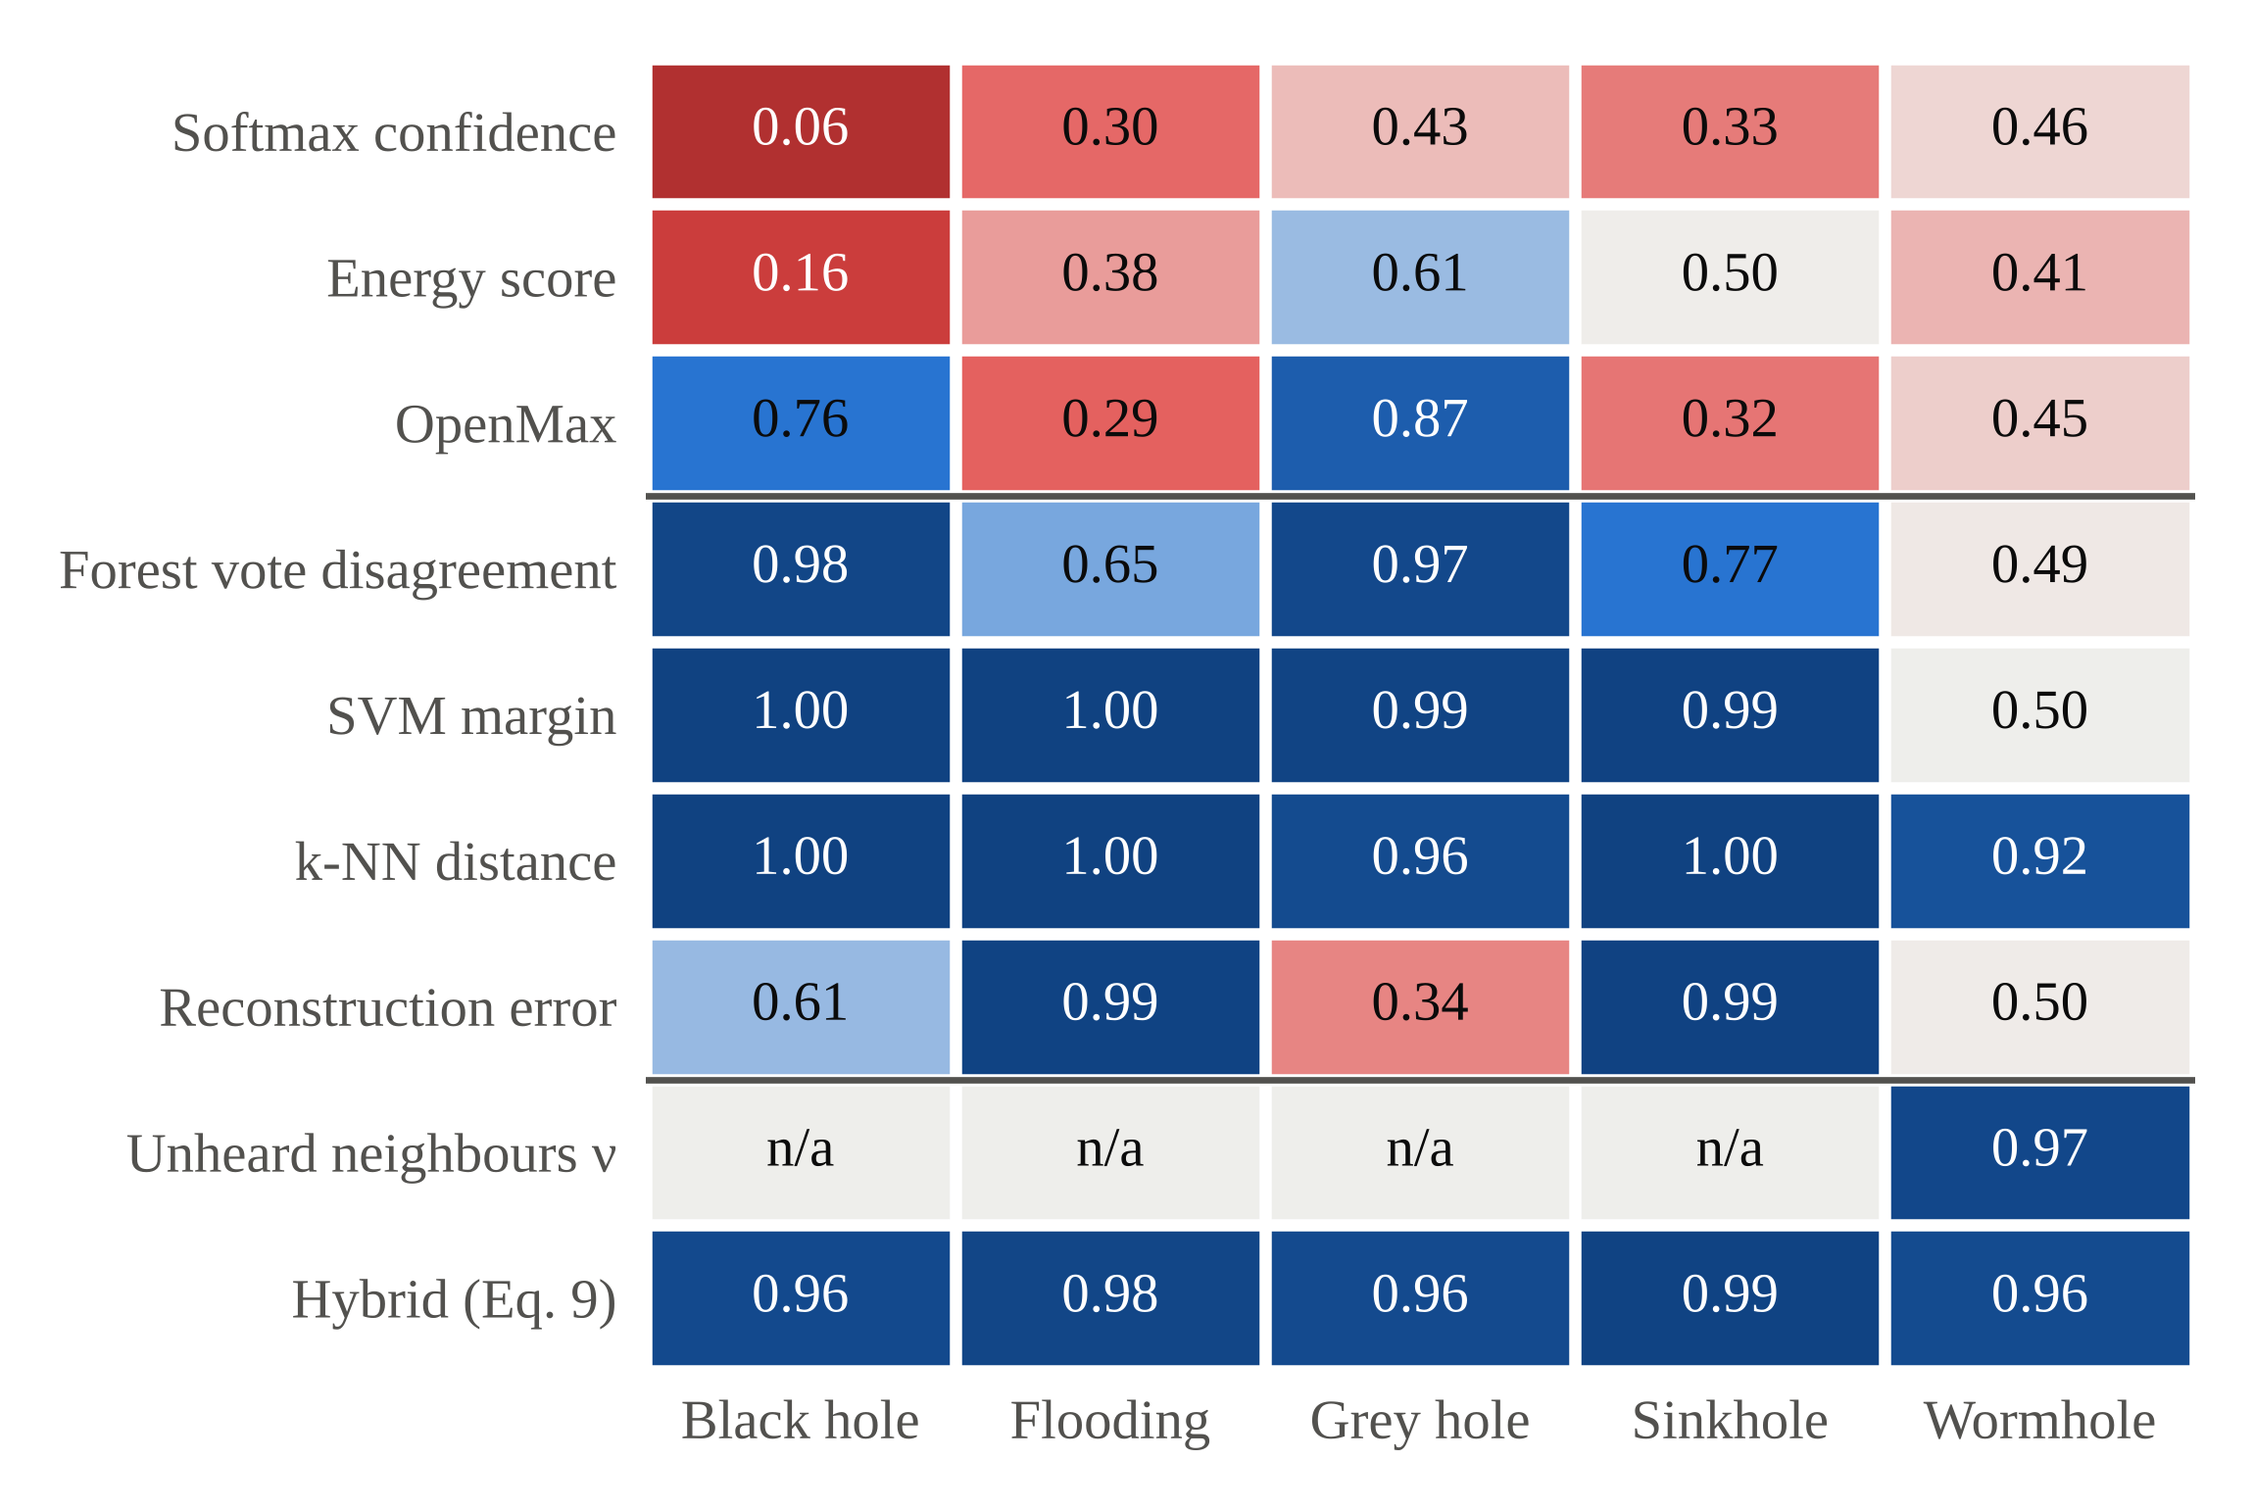
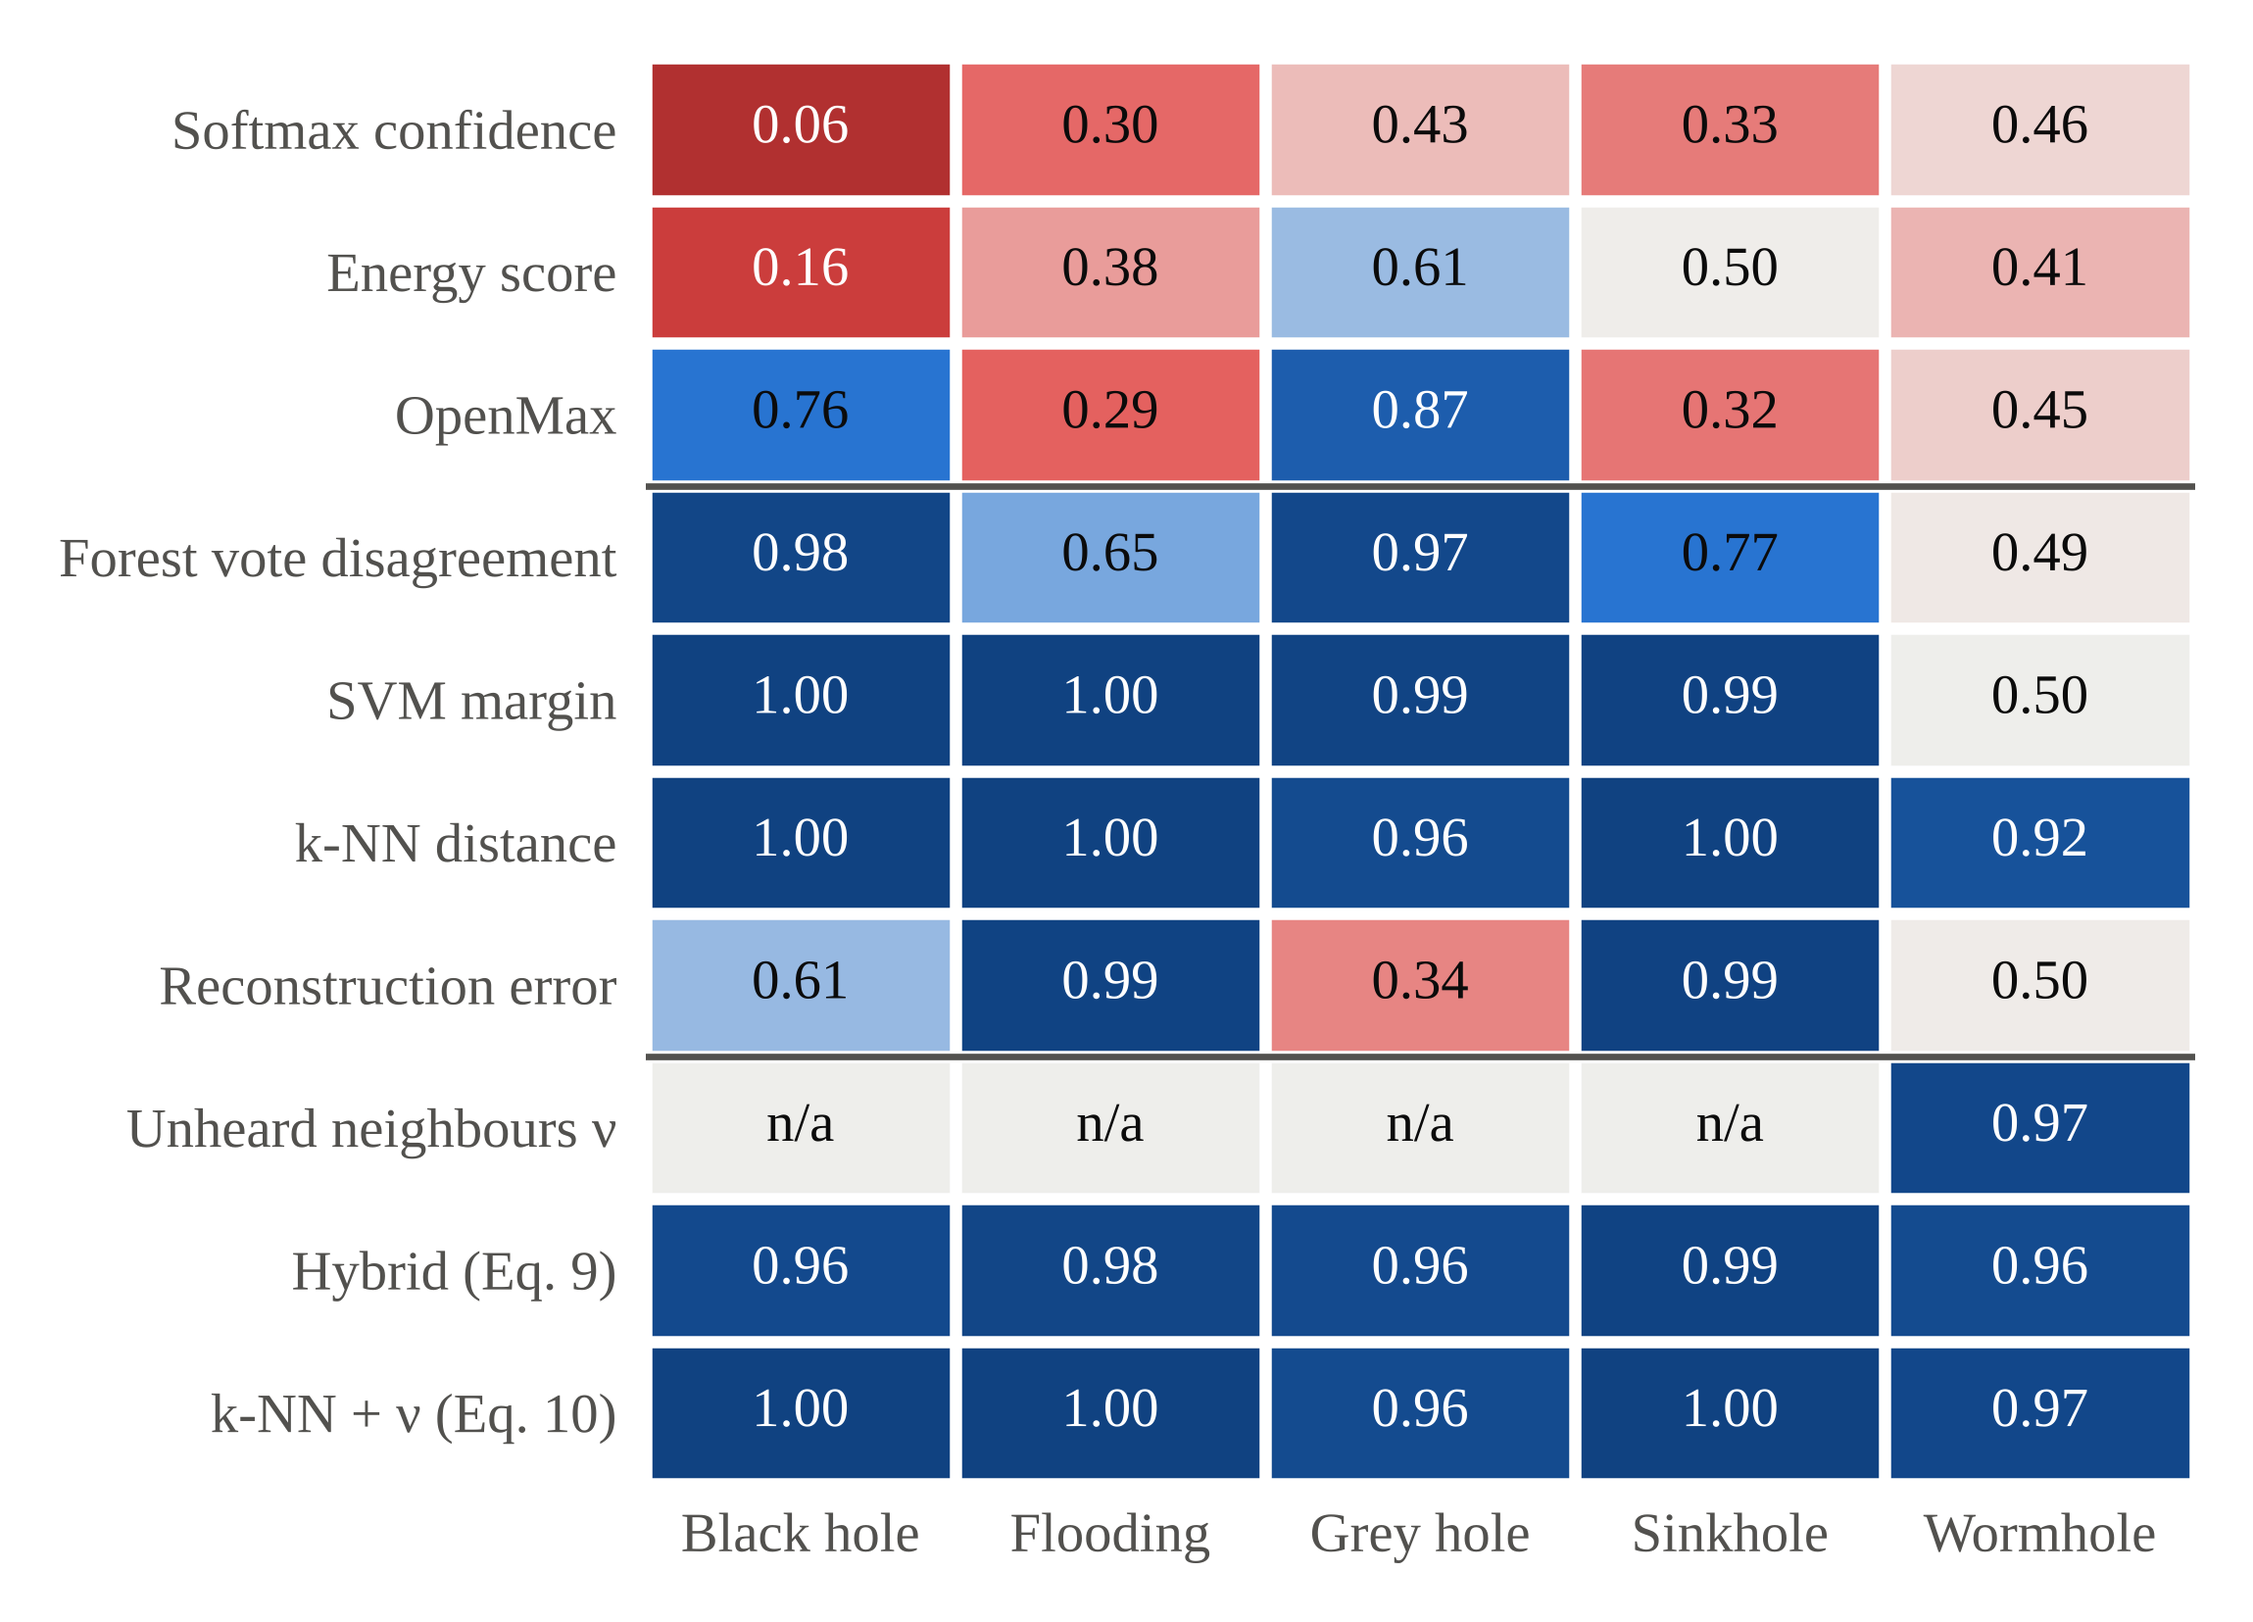
Add the k-NN plus nu detector to tables and the AUROC figure; refresh complexity on dataset3
Claude-Session: https://claude.ai/code/session_016JP1MSkrhoLUHdTuTRgid2

diff --git a/analysis/make_tables.py b/analysis/make_tables.py
@@ -29,7 +29,7 @@ rows = [("msp_cnn", "MSP, CNN"), ("msp_lstm", "MSP, LSTM"), ("msp_gru", "MSP, GR
         None, ("rf_vote", "Forest vote"), ("rf_entropy", "Forest vote entropy"), ("svm_margin", "SVM margin"),
         ("knn_dist", "$k$-NN distance"), ("autoencoder", "Reconstruction"), None, ("nu", "$\\nu$"),
         ("hybrid_rf_ae", "Vote + recon."), ("hybrid_rf_nu", "Vote + $\\nu$"), ("hybrid_ae_nu", "Recon. + $\\nu$"),
-        ("hybrid", "Hybrid, Eq.~(\\ref{eq:hybrid})")]
+        ("hybrid", "Hybrid, Eq.~(\\ref{eq:hybrid})"), ("knn_nu", "$k$-NN + $\\nu$, Eq.~(\\ref{eq:knnnu})")]
 best = {a: max(r["open_set"][a][m]["auroc"]["mean"] or 0 for m in r["open_set"][a]) for a in A}
 with open(os.path.join(OUT, "openset_auroc.tex"), "w") as f:
     for row in rows:
@@ -45,12 +45,12 @@ with open(os.path.join(OUT, "openset_auroc.tex"), "w") as f:
 
 # operating point
 op = [("msp_gru", "MSP, GRU"), ("energy_gru", "Energy, GRU"), ("openmax_gru", "OpenMax, GRU"), ("rf_vote", "Forest vote"),
-      ("knn_dist", "$k$-NN distance"), ("autoencoder", "Reconstruction"), ("nu", "$\\nu$"), ("hybrid", "Hybrid")]
+      ("knn_dist", "$k$-NN distance"), ("autoencoder", "Reconstruction"), ("nu", "$\\nu$"), ("hybrid", "Hybrid"), ("knn_nu", "$k$-NN + $\\nu$")]
 with open(os.path.join(OUT, "operating.tex"), "w") as f:
     for k, lab in op:
         c = [f"{r['open_set'][a][k]['tpr_at_val95']['mean']:.2f}/{r['open_set'][a][k]['fpr_at_val95']['mean']:.2f}" for a in A]
-        kf = [r["open_set"][a][k]["known_attacks_flagged"]["mean"] for a in A]
-        f.write(f"{lab} & " + " & ".join(c) + f" & {np.mean(kf):.2f} \\\\\n")
+        dr = [r["open_set"][a][k]["tpr_at_val95"]["mean"] for a in A]
+        f.write(f"{lab} & " + " & ".join(c) + f" & {np.mean(dr):.2f} \\\\\n")
 
 # autoencoder ablation
 ab = r["autoencoder_ablation"]

diff --git a/tables/operating.tex b/tables/operating.tex
@@ -1,8 +1,9 @@
-MSP, GRU & 0.04/0.07 & 0.01/0.07 & 0.35/0.05 & 0.01/0.06 & 0.07/0.06 & 0.07 \\
-Energy, GRU & 0.05/0.08 & 0.01/0.05 & 0.45/0.05 & 0.04/0.06 & 0.00/0.06 & 0.09 \\
-OpenMax, GRU & 0.27/0.08 & 0.01/0.07 & 0.67/0.05 & 0.01/0.06 & 0.07/0.06 & 0.46 \\
-Forest vote & 0.90/0.05 & 0.04/0.04 & 0.94/0.04 & 0.12/0.05 & 0.00/0.04 & 0.56 \\
-$k$-NN distance & 1.00/0.05 & 1.00/0.21 & 0.90/0.05 & 1.00/0.10 & 0.62/0.05 & 0.78 \\
-Reconstruction & 0.06/0.05 & 1.00/0.04 & 0.00/0.04 & 1.00/0.08 & 0.00/0.04 & 0.48 \\
-$\nu$ & 0.00/0.00 & 0.00/0.00 & 0.00/0.00 & 0.00/0.00 & 0.94/0.00 & 0.09 \\
-Hybrid & 0.72/0.05 & 0.99/0.04 & 0.92/0.04 & 0.94/0.07 & 0.94/0.04 & 0.74 \\
+MSP, GRU & 0.04/0.07 & 0.01/0.07 & 0.35/0.05 & 0.01/0.06 & 0.07/0.06 & 0.10 \\
+Energy, GRU & 0.05/0.08 & 0.01/0.05 & 0.45/0.05 & 0.04/0.06 & 0.00/0.06 & 0.11 \\
+OpenMax, GRU & 0.27/0.08 & 0.01/0.07 & 0.67/0.05 & 0.01/0.06 & 0.07/0.06 & 0.20 \\
+Forest vote & 0.90/0.05 & 0.04/0.04 & 0.94/0.04 & 0.12/0.05 & 0.00/0.04 & 0.40 \\
+$k$-NN distance & 1.00/0.05 & 1.00/0.21 & 0.90/0.05 & 1.00/0.10 & 0.62/0.05 & 0.90 \\
+Reconstruction & 0.06/0.05 & 1.00/0.04 & 0.00/0.04 & 1.00/0.08 & 0.00/0.04 & 0.41 \\
+$\nu$ & 0.00/0.00 & 0.00/0.00 & 0.00/0.00 & 0.00/0.00 & 0.94/0.00 & 0.19 \\
+Hybrid & 0.72/0.05 & 0.99/0.04 & 0.92/0.04 & 0.94/0.07 & 0.94/0.04 & 0.90 \\
+$k$-NN + $\nu$ & 1.00/0.05 & 1.00/0.20 & 0.90/0.05 & 1.00/0.10 & 0.94/0.05 & 0.97 \\

diff --git a/analysis/make_figures.py b/analysis/make_figures.py
@@ -54,11 +54,12 @@ def fig_protocol():
 def fig_auroc(r):
     rows = [("msp_gru", "Softmax confidence"), ("energy_gru", "Energy score"), ("openmax_gru", "OpenMax"),
             ("rf_vote", "Forest vote disagreement"), ("svm_margin", "SVM margin"), ("knn_dist", "k-NN distance"),
-            ("autoencoder", "Reconstruction error"), ("nu", "Unheard neighbours ν"), ("hybrid", "Hybrid (Eq. 9)")]
+            ("autoencoder", "Reconstruction error"), ("nu", "Unheard neighbours ν"), ("hybrid", "Hybrid (Eq. 9)"),
+            ("knn_nu", "k-NN + ν (Eq. 10)")]
     M = np.array([[r["open_set"][a][m]["auroc"]["mean"] if r["open_set"][a][m]["auroc"]["mean"] is not None
                    else np.nan for a in ATT] for m, _ in rows])
     cmap = LinearSegmentedColormap.from_list("div", ["#a32a2a", "#e34948", "#f0efec", "#2a78d6", "#104281"])
-    fig, ax = plt.subplots(figsize=(3.4, 2.9))
+    fig, ax = plt.subplots(figsize=(3.4, 3.15))
     show = np.where(np.isnan(M), 0.5, M)
     ax.imshow(show, cmap=cmap, vmin=0, vmax=1, aspect="auto")
     for i in range(M.shape[0]):

diff --git a/tables/complexity.tex b/tables/complexity.tex
@@ -1,9 +1,9 @@
 $\nu$ & -- & 0.4 & -- & 0.0007 \\
-Decision tree & -- & 6.5 & 0.05 & 0.19 \\
-Support vector machine & -- & 88.8 & 0.14 & 0.41 \\
-$k$-nearest neighbours & -- & 1131.9 & 0.01 & 0.76 \\
-Random forest, 300 trees & -- & 2022.3 & 0.83 & 35.47 \\
-Convolutional network & 17.5k & 68.5 & 6.75 & 0.16 \\
-Long short-term memory & 56.3k & 219.8 & 33 & 0.51 \\
-Gated recurrent unit & 42.8k & 167.0 & 38 & 1.10 \\
-Autoencoder & 11.5k & 45.1 & 6.11 & 1.13 \\
+Decision tree & -- & 6.5 & 0.02 & 0.08 \\
+Support vector machine & -- & 88.8 & 0.22 & 0.43 \\
+$k$-nearest neighbours & -- & 1131.9 & 0.01 & 0.90 \\
+Random forest, 300 trees & -- & 2022.3 & 0.83 & 45.68 \\
+Convolutional network & 17.5k & 68.5 & 6.75 & 0.12 \\
+Long short-term memory & 56.3k & 219.8 & 33 & 0.71 \\
+Gated recurrent unit & 42.8k & 167.0 & 38 & 1.78 \\
+Autoencoder & 11.5k & 45.1 & 6.11 & 1.41 \\

diff --git a/tables/openset_auroc.tex b/tables/openset_auroc.tex
@@ -19,3 +19,4 @@ Vote + recon. & 0.962 & 0.979 & 0.958 & 0.989 & 0.470 & 0.872 \\
 Vote + $\nu$ & 0.979 & 0.651 & 0.966 & 0.765 & 0.960 & 0.864 \\
 Recon. + $\nu$ & 0.610 & 0.990 & 0.343 & 0.994 & 0.963 & 0.780 \\
 Hybrid, Eq.~(\ref{eq:hybrid}) & 0.962 & 0.979 & 0.958 & 0.989 & 0.957 & 0.969 \\
+$k$-NN + $\nu$, Eq.~(\ref{eq:knnnu}) & \textbf{0.999} & \textbf{1.000} & 0.956 & 0.999 & \textbf{0.972} & 0.985 \\
